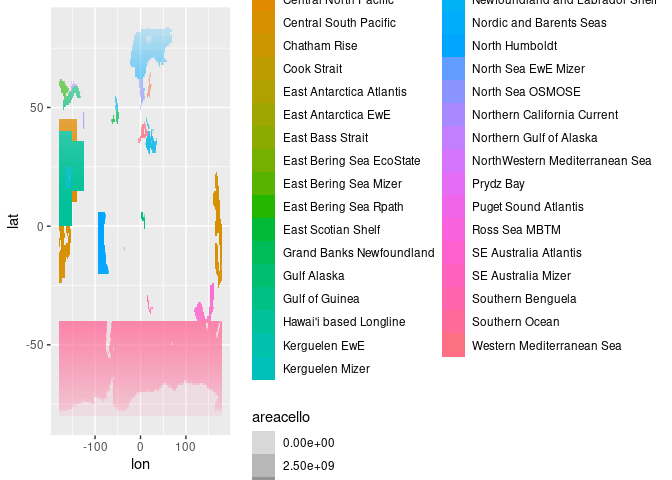
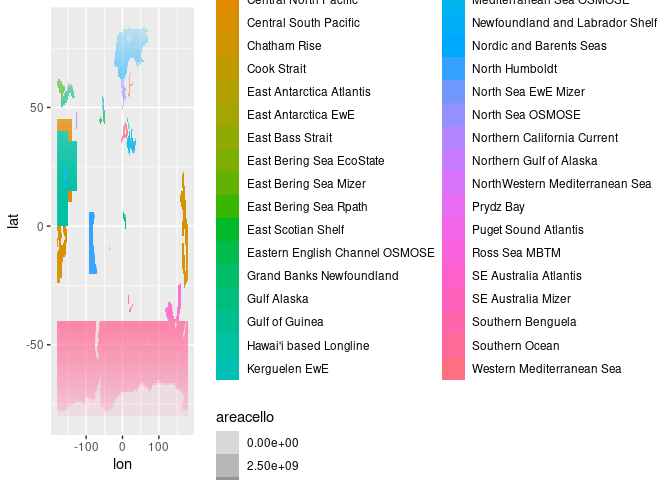
adding English channel model boundaries

diff --git a/scripts/02_Mapping_Regional_Models.md b/scripts/02_Mapping_Regional_Models.md
@@ -140,12 +140,12 @@ fishmip_reg <- file.path("/rd/gem/private/shared_resources",
 fishmip_reg
 ```
 
-    ## Simple feature collection with 39 features and 3 fields
+    ## Simple feature collection with 40 features and 3 fields
     ## Geometry type: MULTIPOLYGON
     ## Dimension:     XY
     ## Bounding box:  xmin: -180 ymin: -78.74234 xmax: 180 ymax: 83.66553
     ## Geodetic CRS:  WGS 84
-    ## # A tibble: 39 × 4
+    ## # A tibble: 40 × 4
     ##    region                   models             nmbr_md                  geometry
     ##  * <chr>                    <chr>                <int>        <MULTIPOLYGON [°]>
     ##  1 Baltic Sea EwE           EwE                      1 (((23.5 64.5, 23.5 64.05…
@@ -158,11 +158,11 @@ fishmip_reg
     ##  8 East Antarctica Atlantis Atlantis                 1 (((81.87166 -53.63183, 1…
     ##  9 East Antarctica EwE      EwE                      1 (((80 -64, 80 -68.00585,…
     ## 10 East Bass Strait         EwE                      1 (((150.5 -36, 150.5 -39,…
-    ## # ℹ 29 more rows
+    ## # ℹ 30 more rows
 
 # Plotting map
 
-Since we removed the Southern Ocean region, we have 39 polygons left.
+Since we removed the Southern Ocean region, we have 40 polygons left.
 However, we will need to apply some changes to our datasets to create
 publication ready maps.
 
@@ -191,7 +191,7 @@ world <- ne_countries(scale = "medium", returnclass = "sf") |>
 #Creating a colour palette by merging colour brewer palettes
 pal <- c("#ee3377", "#364b9a", brewer.pal(12, "Paired"), brewer.pal(10, "Set3"), 
          "#ee7733", "#332288", "#ccddaa", "#009988", "#993d9a", 
-         "#117733", "#997700", "#aa4499", brewer.pal(6, "Dark2"), "#ea4648")
+         "#117733", "#997700", "#aa4499", brewer.pal(7, "Dark2"), "#ea4648")
 
 #Reprojecting FishMIP regions
 fishmip_reg_rob <- fishmip_reg |> 
@@ -409,7 +409,7 @@ server](http://portal.sf.utas.edu.au/thredds/catalog/gem/fishmip/catalog.html).
 ``` r
 #Saving final map
 ggsave("../outputs/FishMIP_regional_models_insets.pdf", final_map, 
-       device = "pdf", width = 25, height = 15, units = "cm")
+       device = "pdf", width = 30, height = 15, units = "cm")
 
 #Saving main map with just regions and no insets
 ggsave("../outputs/FishMIP_regional_models.pdf", reg, device = "pdf", 

diff --git a/scripts/03b_Regional_Models_3DMasks.md b/scripts/03b_Regional_Models_3DMasks.md
@@ -246,7 +246,7 @@ reg_keys |>
 reg_keys
 ```
 
-    ## # A tibble: 40 × 2
+    ## # A tibble: 41 × 2
     ##       id region                  
     ##    <int> <chr>                   
     ##  1     1 Baltic Sea EwE          
@@ -259,7 +259,7 @@ reg_keys
     ##  8     8 East Antarctica Atlantis
     ##  9     9 East Antarctica EwE     
     ## 10    10 East Bass Strait        
-    ## # ℹ 30 more rows
+    ## # ℹ 31 more rows
 
 ## How to use raster mask
 
@@ -343,7 +343,7 @@ mask_df <- read_csv(list.files(out_folder, "w-fractions.*csv",
   filter(region == "East Antarctica EwE")
 ```
 
-    ## Rows: 24194 Columns: 4
+    ## Rows: 24199 Columns: 4
     ## ── Column specification ────────────────────────────────────────────────────────
     ## Delimiter: ","
     ## chr (1): region
@@ -374,7 +374,7 @@ extract_df_all <- read_csv(list.files(out_folder, "w-fractions.*csv",
   left_join(sample_df, by = c("lon", "lat"))
 ```
 
-    ## Rows: 24194 Columns: 4
+    ## Rows: 24199 Columns: 4
     ## ── Column specification ────────────────────────────────────────────────────────
     ## Delimiter: ","
     ## chr (1): region
